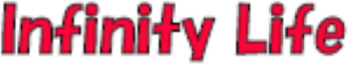
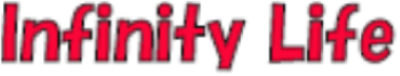
Add files via upload

diff --git a/style.css b/style.css
@@ -40,6 +40,11 @@ li {
     background: #3ea1d1;
   }
 
+  body {
+    box-sizing : border-box;
+  }
+
+ 
 
 /*header*/
 .header {
@@ -237,7 +242,7 @@ font-size: 25px;
 
 .footer-sns-list {
   text-align: center;
-  margin-left: -42px;
+  /*margin-left: -42px;*/
 }
 
 .footer-sns-item {
@@ -252,21 +257,21 @@ font-size: 25px;
   color: #3EA1D1;
   font-size: 24px;
   display: block;
-  padding: .1em .5em;
+  /*padding: .1em .5em;*/
 }
 
 .footer-copyright {
   color: #3EA1D1;
   font-size: 12px;
   text-align: center;
-  margin-top: 12px;
+  /*margin-top: 12px;*/
 }
 
 /*スマホ*/
 
 @media screen and (max-width: 767px)  {
   .header-logo img {
-  width: 200px;
+  width: 215px;
   }
 
   .header-logo {
@@ -274,6 +279,7 @@ font-size: 25px;
   }
   .header-nav ul  {
     margin-left: -23px;
+    display: block;
   }
 
   .header {
@@ -285,6 +291,14 @@ font-size: 25px;
     width: 190px;
     height: auto;
     margin: 14px;
+  }
+
+  .header-box {
+    width: 190px;
+  }
+
+  .header-nav ul  li {
+    font-size: 30px;
   }
 
   .warks-item {
@@ -300,12 +314,16 @@ font-size: 25px;
     padding: 49px 0;
   }
 
+  .layout_2_div {
+    display: block;
+  }
+
   .layout_2_div img {
-    padding: 0 82px;
+      padding-left: 76px;
     width: 200px;
   }
 
   .text_home {
     font-size: 14px;
-    padding: 0 62px;
+    margin: 0 auto;
 }

diff --git a/index.html b/index.html
@@ -11,7 +11,7 @@
     type="text/javascript"></script>
 
   <link rel="stylesheet" href="https://use.fontawesome.com/releases/v5.6.1/css/all.css">
-  <title>yana</title>
+  <title>Infinity Life</title>
   <link rel="icon" href="./img/無限の記号 (1).png">
   <link rel="stylesheet" href="style.css">
 </head>
